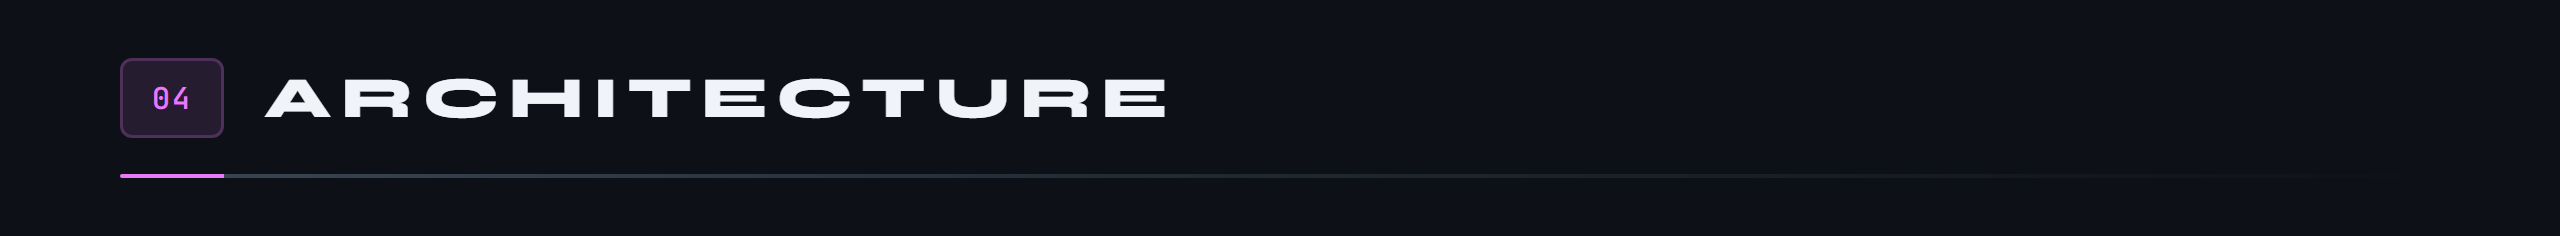
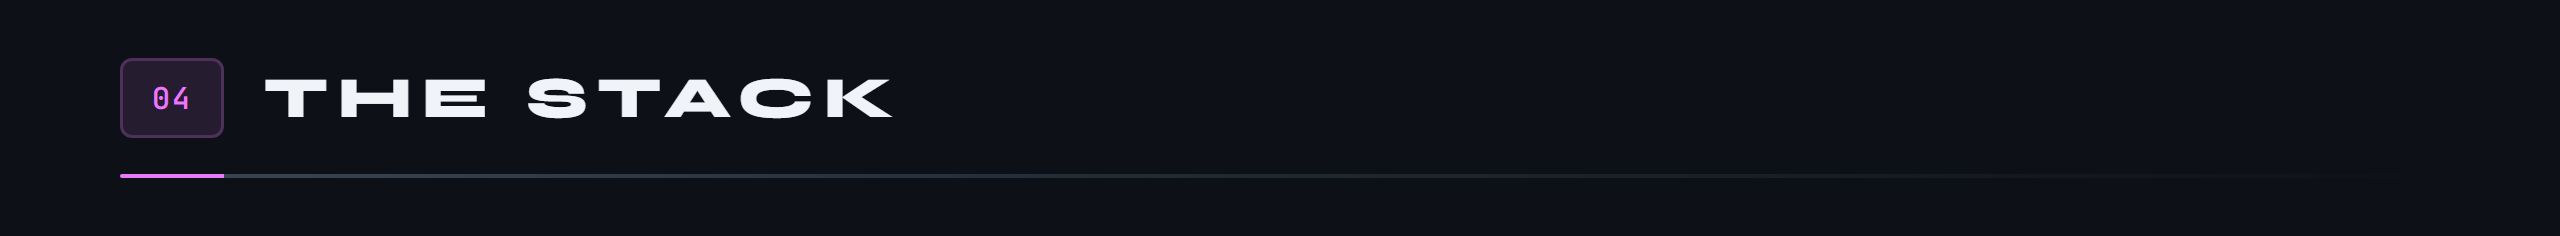
APK 1.0.0 sans jeu d'essai, et une section « Installer »
Le jeu d'essai sort de l'APK publié. La ligne des réglages n'existe
qu'avec --dart-define=ESSAIS=true : sans le drapeau, le compilateur
retire le générateur, ses dix-huit profils et leurs carnets. Les visages
quittent les assets et se posent sur le téléphone par adb, dans le
dossier propre à l'application. L'APK passe de 30,3 à 28,4 Mo.

Nouvelle section 03, « Installer » : l'APK est dans les Releases, un
bouton mène toujours au dernier, et deux vérifications, l'empreinte du
fichier et le certificat de signature. Les bandeaux suivants passent de
04 à 14. telecharger.sh dessine le bouton, version et taille comprises.

Version 1.0.0+2.

Claude-Session: https://claude.ai/code/session_01NXLhh24fksVRhN8kDArzP8

Changed region(s): [[0.0938, 0.3263, 0.4688, 0.5042]]

diff --git a/lib/donnees/demonstration.dart b/lib/donnees/demonstration.dart
@@ -1,6 +1,7 @@
+import 'dart:io';
 import 'dart:math';
 
-import 'package:flutter/services.dart' show rootBundle;
+import 'package:path_provider/path_provider.dart';
 
 import '../domaine/note.dart';
 import '../domaine/personne.dart';
@@ -66,8 +67,11 @@ class _Profil {
 
 /// Remplit la base avec un jeu d'essai.
 ///
-/// Les visages viennent de `assets/demo` : ce sont des portraits générés,
-/// ils ne représentent personne de réel.
+/// Les visages sont des portraits générés, qui ne représentent personne de
+/// réel. Ils ne sont pas dans l'APK : on les pose sur le téléphone, dans le
+/// dossier propre à l'application, avant de lancer le remplissage.
+///
+///     adb push assets/demo/. /sdcard/Android/data/com.bodycount.bodycount/files/demo/
 class Demonstration {
   const Demonstration();
 
@@ -519,10 +523,12 @@ class Demonstration {
   /// Si le fichier manque, la fiche se crée quand même, sans photo : le
   /// jeu d'essai ne doit jamais échouer pour une image absente.
   Future<String?> _visage(int numero) async {
-    final nom = 'assets/demo/v${numero.toString().padLeft(2, '0')}.jpg';
     try {
-      final donnees = await rootBundle.load(nom);
-      return await PhotoVault.instance.store(donnees.buffer.asUint8List());
+      final dossier = await getExternalStorageDirectory();
+      if (dossier == null) return null;
+      final nom = 'v${numero.toString().padLeft(2, '0')}.jpg';
+      final fichier = File('${dossier.path}/demo/$nom');
+      return await PhotoVault.instance.store(await fichier.readAsBytes());
     } catch (_) {
       return null;
     }

diff --git a/lib/ecrans/reglages.dart b/lib/ecrans/reglages.dart
@@ -5,6 +5,7 @@ import 'package:flutter/material.dart';
 import 'package:flutter_riverpod/flutter_riverpod.dart';
 import 'package:go_router/go_router.dart';
 
+import '../config/essais.dart';
 import '../config/theme.dart';
 import '../donnees/base.dart';
 import '../donnees/demonstration.dart';
@@ -106,18 +107,20 @@ class SettingsScreen extends ConsumerWidget {
             ),
             const SizedBox(height: 22),
 
-            const _Intitule('Essais'),
-            _Bloc(
-              children: [
-                _LigneChoix(
-                  icone: Icons.auto_awesome_outlined,
-                  titre: 'Remplir avec un jeu d\'essai',
-                  valeur: '18 fiches',
-                  onTap: () => _remplir(context, ref),
-                ),
-              ],
-            ),
-            const SizedBox(height: 22),
+            if (avecEssais) ...[
+              const _Intitule('Essais'),
+              _Bloc(
+                children: [
+                  _LigneChoix(
+                    icone: Icons.auto_awesome_outlined,
+                    titre: 'Remplir avec un jeu d\'essai',
+                    valeur: '18 fiches',
+                    onTap: () => _remplir(context, ref),
+                  ),
+                ],
+              ),
+              const SizedBox(height: 22),
+            ],
 
             _BoutonDanger(onTap: () => _toutEffacer(context, ref)),
             const SizedBox(height: 18),

diff --git a/lib/config/essais.dart b/lib/config/essais.dart
@@ -1,0 +1,8 @@
+/// Le jeu d'essai n'existe que dans une version de travail.
+///
+/// `flutter build apk --dart-define=ESSAIS=true` le fait apparaître dans
+/// les réglages. Sans ce drapeau, la constante vaut faux à la compilation :
+/// le compilateur retire alors la ligne des réglages, et avec elle tout le
+/// générateur, ses dix-huit profils et leurs carnets. L'APK publié n'en
+/// garde pas un octet.
+const bool avecEssais = bool.fromEnvironment('ESSAIS');

diff --git a/README.md b/README.md
@@ -22,7 +22,7 @@ Toute la conception découle de cette contrainte, jusqu'à la carte, qui dessine
 
 <img src="docs/sections/s02.png" alt="02 Les écrans" width="100%">
 
-L'application est pensée d'abord pour le format passeport, l'écran de couverture d'un Galaxy Z Fold : large et court. C'est là qu'elle sert tous les jours, et c'est lui qui porte la planche complète. Les visages sont ceux du jeu d'essai du dépôt, des portraits générés : personne de réel.
+L'application est pensée d'abord pour le format passeport, l'écran de couverture d'un Galaxy Z Fold : large et court. C'est là qu'elle sert tous les jours, et c'est lui qui porte la planche complète. Les visages sont ceux du jeu d'essai, des portraits générés : personne de réel.
 
 <img src="docs/schemas/captures-passeport.png" alt="Douze écrans au format passeport. Lancement : l'icône sur le fond de l'application. Chargement : un anneau se trace autour du logo pendant que le nom monte. Verrou : le logo a glissé à sa place, le bouton d'empreinte attend. Répertoire : trois colonnes de fiches avec photo, tris, villes et étiquettes. Fiche : la photo d'Enzo en grand, ses étiquettes, ses rencontres. Carnet et galerie : les notes datées, une photo et une vidéo. Visionneuse : la vidéo en lecture, avec le bouton de téléchargement. Point précis : la carte autour d'Auray avec les communes voisines et l'épingle. Statistiques : le total de l'année et le podium. Carte : la Bretagne et les villes regroupées. Calendrier : septembre sur sept colonnes. Réglages : le verrou, la sauvegarde, la restauration." width="100%">
 
@@ -44,7 +44,32 @@ La palette reprend le dégradé du logo, du violet au fuchsia, sur des fonds pre
 
 <img src="docs/schemas/palette.png" alt="Palette : primaire violet #A855F7, accent fuchsia #D946EF, fond #0B0616, surface #150C28, cartes #1A1030, texte #F6F2FF." width="100%">
 
-<img src="docs/sections/s03.png" alt="03 La stack" width="100%">
+<img src="docs/sections/s03.png" alt="03 Installer" width="100%">
+
+L'APK se trouve dans les [Releases](https://github.com/Cybertrist/BodyCount/releases/latest) du dépôt, et non dans le code : un binaire de près de trente mégaoctets versionné avec les sources resterait dans l'historique pour toujours, et chaque clone le traînerait, une fois par version. Le lien ci-dessous mène toujours à la dernière.
+
+<p align="center">
+  <a href="https://github.com/Cybertrist/BodyCount/releases/latest/download/BodyCount.apk"><img src="docs/telecharger.png" alt="Télécharger BodyCount, dernière version, Android 7 ou plus, arm64" width="480"></a>
+</p>
+
+Il demande Android 7 ou plus sur un processeur 64 bits, soit tout téléphone de ces dernières années. Comme il ne passe pas par le Play Store, Android fera autoriser l'installation depuis l'application qui l'ouvre, le navigateur ou le gestionnaire de fichiers.
+
+Pour une application qui gardera ce genre de données, deux vérifications valent la minute qu'elles prennent. L'empreinte du fichier doit être celle publiée avec la version :
+
+```bash
+sha256sum BodyCount.apk
+```
+
+Et le certificat qui le signe doit être celui-ci, le même pour toutes les versions. Android refuse une mise à jour signée d'une autre clé, ce qui écarte aussi un APK retouché en chemin :
+
+```bash
+apksigner verify --print-certs BodyCount.apk
+# SHA-256 : ac09674e066658991aeb60f02e1386423b5e14dede4bd6c844f542785fef86d1
+```
+
+L'APK publié ne contient pas le jeu d'essai : ni les dix-huit profils, ni leurs visages, ni la ligne des réglages qui les crée.
+
+<img src="docs/sections/s04.png" alt="04 La stack" width="100%">
 
 <img src="docs/schemas/stack.png" alt="Flutter 3.x le framework en Dart. sqflite_sqlcipher pour SQLite chiffré par SQLCipher. cryptography pour AES-GCM des photos, HKDF et PBKDF2. javax.crypto pour l'AES-GCM natif des vidéos et des sauvegardes. flutter_secure_storage pour la clé maîtresse dans le Keystore Android. local_auth pour l'empreinte qui déverrouille la clé. flutter_riverpod pour l'état et l'invalidation après écriture. go_router pour la navigation et la garde du verrou. image_picker pour les photos et vidéos chiffrées dès leur arrivée. video_player pour la lecture. path_provider pour les dossiers privés. archive pour relire l'ancien format de sauvegarde. uuid pour le nom des fichiers du coffre. intl pour les dates. url_launcher pour l'itinéraire et l'appel. Chakra Petch pour les titres." width="100%">
 
@@ -61,7 +86,7 @@ Pour une version installable, `flutter build apk --release --split-per-abi`. Le 
 
 Quelques lignes de Kotlin dans `MainActivity` remplacent deux paquets. `cryptography_flutter` s'installait comme implémentation de toute la cryptographie, dérivation de clé comprise, et Android refusait la clé HMAC vide d'une extraction sans sel : la base ne s'ouvrait plus. `share_plus` 13 aurait exigé une version majeure de `flutter_secure_storage`, là où vit la clé maîtresse. L'activité porte donc l'AES-GCM natif, le sélecteur de fichiers, le partage, l'enregistrement dans la galerie, la lecture de la durée et d'une image d'une vidéo, et son réencodage par Media3.
 
-<img src="docs/sections/s04.png" alt="04 Architecture" width="100%">
+<img src="docs/sections/s05.png" alt="05 Architecture" width="100%">
 
 Cinq couches, et une règle : une couche ne connaît jamais celle du dessus. Un écran ne voit pas SQLite, un dépôt ne voit pas Riverpod, et rien ne lit un fichier du coffre sans passer par le trousseau.
 
@@ -77,7 +102,7 @@ Six tables, schéma v7. `personnes` est le pivot : tout ce qui s'y rattache part
 
 <img src="docs/schemas/arborescence.png" alt="Arborescence de lib : main.dart le point d'entrée, app.dart l'application son thème et le reverrouillage, config thème routage et formats d'écran, domaine les modèles, donnees le schéma chiffré les dépôts et les statistiques dont base.dart pour l'ouverture unique et les migrations, coordonnees.dart pour les communes et geometrie_france.dart, security trousseau coffres photo et vidéo verrou et protection écran dont flux_chiffre.dart et aes_natif.dart, providers l'état en Riverpod, ecrans les écrans dont calendrier.dart et visionneuse.dart, widgets les composants réutilisables dont la carte, utils médias sauvegarde en flux sélecteur de fichiers et dates." width="100%">
 
-<img src="docs/sections/s05.png" alt="05 Le chiffrement" width="100%">
+<img src="docs/sections/s06.png" alt="06 Le chiffrement" width="100%">
 
 L'empreinte ne déverrouille pas un écran : elle charge la clé maîtresse depuis le Keystore. Tant qu'elle n'a pas été donnée, la base est un fichier illisible, les photos et les vidéos aussi. Deux clés en sont dérivées par HKDF, l'une pour SQLCipher, l'autre pour le coffre, et aucune n'existe en mémoire avant.
 
@@ -89,7 +114,7 @@ Chaque photo est un fichier à part, chiffré en AES-GCM d'un seul bloc, nommé 
 
 Le verrou se referme sans geste à l'écran, ou au retour d'arrière-plan, après un délai réglable. Il attend la fin d'un travail en cours : une sauvegarde, une restauration ou une longue vidéo qui se chiffre ne se touchent pas du doigt, et le sélecteur de fichiers du système passe l'application en arrière-plan. Il se coupe aussi entièrement dans les réglages : le chiffrement reste, mais la clé se charge alors sans preuve d'identité, et l'écran le dit avant de l'accepter. Au verrouillage, les clés sont oubliées, et leurs octets écrasés avant d'être lâchés plutôt que laissés au ramasse-miettes. L'aperçu du multitâche est masqué, les captures d'écran bloquées, et la sauvegarde automatique d'Android refusée : elle recopierait la base chiffrée sur des serveurs qui ne sont pas les tiens.
 
-<img src="docs/sections/s06.png" alt="06 Vidéos et sauvegardes" width="100%">
+<img src="docs/sections/s07.png" alt="07 Vidéos et sauvegardes" width="100%">
 
 Une vidéo pèse cent fois une photo. La chiffrer d'un bloc demandait de la tenir entière en mémoire, et une sauvegarde qui l'emportait devait tenir en mémoire toutes les vidéos à la fois. Les deux passent donc par un flux chiffré par morceaux d'un mégaoctet, écrit et relu sur le disque.
 
@@ -109,7 +134,7 @@ Une restauration ne touche à rien avant d'avoir tout vérifié. Le fichier est 
 
 L'export propose d'enregistrer le fichier dans un dossier avant de le partager : avec des vidéos, une sauvegarde dépasse vite ce que la plupart des applications acceptent. Le partage passe par une URI temporaire limitée au seul dossier des sauvegardes. Quand la dernière sauvegarde a plus d'un mois, ou qu'il n'y en a jamais eu, un bandeau le dit en haut du répertoire. Les sauvegardes de l'ancien format, un ZIP chiffré d'un bloc, se relisent toujours.
 
-<img src="docs/sections/s07.png" alt="07 La carte, sans tuiles" width="100%">
+<img src="docs/sections/s08.png" alt="08 La carte, sans tuiles" width="100%">
 
 Une carte à tuiles enverrait à un serveur, à chaque déplacement du doigt, la liste exacte des endroits regardés. Pour une application dont toute la promesse est que rien ne sort du téléphone, c'était la seule chose à ne pas faire. La France est donc embarquée.
 
@@ -127,7 +152,7 @@ Tout ce qui est en France est posé. Le nom exact d'abord, en ignorant accents, 
 
 Une rencontre peut aussi se poser à la main, à un point précis. Sans tuiles, il n'y a pas de rues à montrer : ce sont les communes voisines, avec leur nom, qui servent de repère. De quoi poser un point « entre Arradon et Séné », qui apparaît sur la carte des lieux une fois qu'on s'est approché.
 
-<img src="docs/sections/s08.png" alt="08 Le calendrier" width="100%">
+<img src="docs/sections/s09.png" alt="09 Le calendrier" width="100%">
 
 La question qu'on se pose le plus souvent n'est pas « combien », mais « quand » : c'était quel soir, il y a combien de temps, est-ce que ça a été une bonne période. Une liste chronologique y répond mal passé quelques dizaines d'entrées : il faut défiler et compter.
 
@@ -137,11 +162,11 @@ Sous chaque jour, jusqu'à trois signes disent ce qu'il a eu de remarquable, du 
 
 Toujours six semaines affichées, même quand le mois n'en occupe que cinq : une grille dont la hauteur dépend du mois fait sauter tout l'écran quand on le feuillette.
 
-<img src="docs/sections/s09.png" alt="09 Modèle de confidentialité" width="100%">
+<img src="docs/sections/s10.png" alt="10 Modèle de confidentialité" width="100%">
 
 <img src="docs/schemas/confidentialite.png" alt="Ce qui est vrai : aucune requête réseau, aucun compte, aucune analytique. La base est chiffrée par SQLCipher, sa clé vit dans le Keystore et n'est chargée qu'après l'empreinte. Chaque photo et chaque vidéo est chiffrée en AES-GCM et reste absente de la galerie du téléphone. L'aperçu du multitâche est masqué, les captures bloquées, la sauvegarde Android refusée. Une restauration vérifie toute la sauvegarde avant d'effacer quoi que ce soit. Ce qui ne l'est pas : une fois l'application ouverte tout est lisible à l'écran, l'empreinte protège l'accès pas ton épaule. Une sauvegarde exportée voyage, elle vaut ce que vaut ta phrase de passe. Perdre le téléphone c'est perdre les données, la clé ne se recopie nulle part. L'empreinte se coupe dans les réglages. Pour être lue, une vidéo est déchiffrée dans le cache privé le temps de la lecture." width="100%">
 
-<img src="docs/sections/s10.png" alt="10 Les tests" width="100%">
+<img src="docs/sections/s11.png" alt="11 Les tests" width="100%">
 
 Ce qui se casse sans bruit est ce qui touche au disque : l'ouverture de la base, ses migrations, le chiffrement, la sauvegarde. Or SQLCipher, le Keystore et l'AES natif n'existent que sur Android. Les tests tournent donc sur un émulateur, avec les vraies bibliothèques, et non contre des imitations qui passeraient là où l'application échoue. Six d'entre eux pilotent l'application entière, au doigt, d'un écran à l'autre.
 
@@ -155,7 +180,7 @@ Ils détruisent les données et la clé de l'application qu'ils visent : à lanc
 
 Ils ont servi dès leur première exécution. Ceux des données ont trouvé une marque de fin de sauvegarde écrite sur onze octets et lue sur un : aucune restauration n'aurait abouti. Ceux des écrans ont trouvé une rangée de chiffres qui débordait de sa hauteur fixe sur la fiche.
 
-<img src="docs/sections/s11.png" alt="11 Sans Internet" width="100%">
+<img src="docs/sections/s12.png" alt="12 Sans Internet" width="100%">
 
 « Aucune requête réseau » s'écrit facilement. Ici, ce n'est pas une promesse du code mais une règle d'Android : l'application ne demande pas la permission `INTERNET`, et sans elle le système refuse d'ouvrir la moindre connexion. Un bug, une bibliothèque trop bavarde, une dépendance piégée à la prochaine mise à jour : tout se heurte au même mur, qui n'est pas dans l'application et qu'elle ne peut pas franchir.
 
@@ -173,13 +198,13 @@ Restent quatre sorties, et aucune ne s'ouvre seule. Chacune attend un doigt, et 
 
 La dernière est la seule à laisser une trace en clair : une photo téléchargée devient une photo comme les autres, visible de la galerie et de tout ce qui la lit. C'est le prix de « je veux la garder ailleurs », et l'application ne le paie qu'à la demande.
 
-<img src="docs/sections/s12.png" alt="12 Avertissement" width="100%">
+<img src="docs/sections/s13.png" alt="13 Avertissement" width="100%">
 
 Ce dépôt est un projet personnel, pas un produit de sécurité. Le chiffrement s'appuie sur des primitives éprouvées et sur le Keystore d'Android, mais l'assemblage, lui, n'a été relu par personne d'autre que moi. Si tu comptes y mettre des données dont la fuite te coûterait quelque chose, lis le code avant, ou ne le fais pas.
 
-Le jeu d'essai attend ses visages dans `assets/demo/`, qui ne fait pas partie du dépôt. Sans eux les dix-huit fiches se créent quand même, simplement sans photo : le générateur se passe de chaque image absente.
+Le jeu d'essai n'existe que dans une version de travail, compilée avec `--dart-define=ESSAIS=true`. Ses visages ne font pas partie du dépôt : ils se posent sur le téléphone, dans le dossier propre à l'application, avec `adb push assets/demo/. /sdcard/Android/data/com.bodycount.bodycount/files/demo/`. Sans eux les dix-huit fiches se créent quand même, simplement sans photo : le générateur se passe de chaque image absente.
 
-<img src="docs/sections/s13.png" alt="13 Licence et auteur" width="100%">
+<img src="docs/sections/s14.png" alt="14 Licence et auteur" width="100%">
 
 BodyCount est conçu et développé par **Tristan Joncour** ([@Cybertrist](https://github.com/Cybertrist)), élève ingénieur en cyberdéfense à l'ENSIBS, pour son propre usage d'abord : c'est l'application qu'il voulait avoir sur son téléphone, et qui n'existait pas.
 

diff --git a/README.en.md b/README.en.md
@@ -22,7 +22,7 @@ Every design decision follows from that constraint, down to the map, which draws
 
 <img src="docs/en/sections/s02.png" alt="02 The screens" width="100%">
 
-The app is designed first for the passport format, the cover screen of a Galaxy Z Fold: wide and short. That is where it gets used every day, so it carries the full sheet. The faces come from the repository's demo set, generated portraits: nobody real.
+The app is designed first for the passport format, the cover screen of a Galaxy Z Fold: wide and short. That is where it gets used every day, so it carries the full sheet. The faces come from the demo set, generated portraits: nobody real.
 
 <img src="docs/en/schemas/captures-passeport.png" alt="Twelve screens in passport format. Launch: the icon on the app's background. Loading: a ring draws around the logo while the name rises. Lock: the logo has slid into place, the fingerprint button waits. Directory: three columns of people with photos, sortings, cities and tags. Person: Enzo's photo full size, his tags, his encounters. Notebook and gallery: dated notes, a photo and a video. Viewer: the video playing, with the download button. Exact point: the map around Auray with nearby communes and the pin. Statistics: the year total and the podium. Map: Brittany and the clustered cities. Calendar: September in seven columns. Settings: the lock, the backup, restore." width="100%">
 
@@ -44,7 +44,32 @@ The palette follows the logo's gradient, from violet to fuchsia, on near-black b
 
 <img src="docs/en/schemas/palette.png" alt="Palette: primary violet #A855F7, accent fuchsia #D946EF, background #0B0616, surface #150C28, cards #1A1030, text #F6F2FF." width="100%">
 
-<img src="docs/en/sections/s03.png" alt="03 The stack" width="100%">
+<img src="docs/en/sections/s03.png" alt="03 Install" width="100%">
+
+The APK lives in the repository's [Releases](https://github.com/Cybertrist/BodyCount/releases/latest), not in the code: a binary of nearly thirty megabytes versioned with the sources would stay in the history forever, and every clone would drag it along, once per version. The link below always leads to the latest one.
+
+<p align="center">
+  <a href="https://github.com/Cybertrist/BodyCount/releases/latest/download/BodyCount.apk"><img src="docs/en/telecharger.png" alt="Download BodyCount, latest version, Android 7 or later, arm64" width="480"></a>
+</p>
+
+It needs Android 7 or later on a 64-bit processor, which means any phone from recent years. Since it does not go through the Play Store, Android will ask you to allow installs from the app that opens it, the browser or the file manager.
+
+For an app that will hold this kind of data, two checks are worth the minute they take. The file's fingerprint must match the one published with the release:
+
+```bash
+sha256sum BodyCount.apk
+```
+
+And the certificate that signs it must be this one, the same for every version. Android refuses an update signed with another key, which also rules out an APK tampered with on the way:
+
+```bash
+apksigner verify --print-certs BodyCount.apk
+# SHA-256: ac09674e066658991aeb60f02e1386423b5e14dede4bd6c844f542785fef86d1
+```
+
+The published APK does not contain the demo set: not the eighteen people, not their faces, not the settings row that creates them.
+
+<img src="docs/en/sections/s04.png" alt="04 The stack" width="100%">
 
 <img src="docs/en/schemas/stack.png" alt="Flutter 3.x the framework in Dart. sqflite_sqlcipher for SQLite encrypted by SQLCipher. cryptography for photo AES-GCM, HKDF and PBKDF2. javax.crypto for native AES-GCM on videos and backups. flutter_secure_storage for the master key in the Android Keystore. local_auth for the fingerprint that unlocks the key. flutter_riverpod for state and invalidation after writes. go_router for navigation and the lock guard. image_picker for photos and videos encrypted the moment they arrive. video_player for playback. path_provider for the private folders. archive for reading back the old backup format. uuid for vault file names. intl for dates. url_launcher for directions and calls. Chakra Petch for titles." width="100%">
 
@@ -61,7 +86,7 @@ For an installable build, `flutter build apk --release --split-per-abi`. Splitti
 
 A few lines of Kotlin in `MainActivity` replace two packages. `cryptography_flutter` installed itself as the implementation of all cryptography, key derivation included, and Android refused the empty HMAC key of an unsalted extraction: the database would no longer open. `share_plus` 13 would have required a major version of `flutter_secure_storage`, where the master key lives. The activity therefore carries native AES-GCM, the file picker, sharing, saving to the gallery, reading a video's duration and one of its frames, and re-encoding it with Media3.
 
-<img src="docs/en/sections/s04.png" alt="04 Architecture" width="100%">
+<img src="docs/en/sections/s05.png" alt="05 Architecture" width="100%">
 
 Five layers, and one rule: a layer never knows the one above it. A screen does not see SQLite, a repository does not see Riverpod, and nothing reads a vault file without going through the keyring.
 
@@ -77,7 +102,7 @@ Six tables, schema v7. `personnes` is the hub: everything attached to a person l
 
 <img src="docs/en/schemas/arborescence.png" alt="Tree of lib: main.dart the entry point, app.dart the app its theme and the auto-lock, config theme routing and screen formats, domaine the models, donnees the encrypted schema the repositories and the statistics including base.dart for the single opening and migrations, coordonnees.dart for the communes and geometrie_france.dart, security keyring photo and video vaults lock and screen guard including flux_chiffre.dart and aes_natif.dart, providers state in Riverpod, ecrans the screens including calendrier.dart and visionneuse.dart, widgets the reusable components including the map, utils media streamed backup file picker and dates." width="100%">
 
-<img src="docs/en/sections/s05.png" alt="05 Encryption" width="100%">
+<img src="docs/en/sections/s06.png" alt="06 Encryption" width="100%">
 
 The fingerprint does not unlock a screen: it loads the master key from the Keystore. Until it has been given, the database is an unreadable file, and so are the photos and videos. Two keys are derived from it by HKDF, one for SQLCipher, one for the vault, and neither exists in memory before that.
 
@@ -89,7 +114,7 @@ Each photo is its own file, encrypted with AES-GCM in one block, named by a UUID
 
 The lock closes after a spell without a gesture on screen, or on returning from the background, after a configurable delay. It waits for work in progress: a backup, a restore or a long video being encrypted involve no finger on the glass, and the system file picker sends the app to the background. It can also be switched off entirely in the settings: encryption stays, but the key then loads without proof of identity, and the screen says so before accepting. On lock, the keys are forgotten, and their bytes overwritten before being released rather than left to the garbage collector. The task switcher preview is blanked, screenshots are blocked, and Android's automatic backup is refused: it would copy the encrypted database onto servers that are not yours.
 
-<img src="docs/en/sections/s06.png" alt="06 Videos and backups" width="100%">
+<img src="docs/en/sections/s07.png" alt="07 Videos and backups" width="100%">
 
 A video weighs a hundred photos. Encrypting it in one block meant holding it whole in memory, and a backup carrying videos had to hold all of them at once. Both therefore go through a stream encrypted in one megabyte chunks, written and read back on disk.
 
@@ -109,7 +134,7 @@ A restore touches nothing before it has checked everything. The file is read twi
 
 Export offers to save the file to a folder before sharing it: with videos, a backup quickly exceeds what most apps accept. Sharing goes through a temporary URI limited to the backups folder alone. When the last backup is more than a month old, or there never was one, a banner says so at the top of the directory. Backups in the old format, a ZIP encrypted in one block, still read back.
 
-<img src="docs/en/sections/s07.png" alt="07 The map, without tiles" width="100%">
+<img src="docs/en/sections/s08.png" alt="08 The map, without tiles" width="100%">
 
 A tile map would send a server, on every drag of a finger, the exact list of places being looked at. For an app whose whole promise is that nothing leaves the phone, that was the one thing not to do. So France ships with the app.
 
@@ -127,7 +152,7 @@ Everything in France gets placed. The exact name first, ignoring accents, hyphen
 
 An encounter can also be placed by hand, at an exact point. Without tiles there are no streets to show: nearby communes, with their names, serve as landmarks. Enough to drop a pin « between Arradon and Séné », which shows on the map of places once you zoom in.
 
-<img src="docs/en/sections/s08.png" alt="08 The calendar" width="100%">
+<img src="docs/en/sections/s09.png" alt="09 The calendar" width="100%">
 
 The question you ask most is not « how many » but « when »: which night was it, how long ago, was that a good stretch. A chronological list answers badly past a few dozen entries: you have to scroll and count.
 
@@ -137,11 +162,11 @@ Under each day, up to three signs say what it had of note, rarest first: the yea
 
 Always six weeks on screen, even when the month only fills five: a grid whose height depends on the month makes the whole screen jump as you leaf through it.
 
-<img src="docs/en/sections/s09.png" alt="09 Privacy model" width="100%">
+<img src="docs/en/sections/s10.png" alt="10 Privacy model" width="100%">
 
 <img src="docs/en/schemas/confidentialite.png" alt="What is true: no network request, no account, no analytics. The database is encrypted by SQLCipher, its key lives in the Keystore and is only loaded after the fingerprint. Every photo and video is encrypted with AES-GCM and never shows in the phone gallery. The task switcher preview is blanked, screenshots blocked, Android backup refused. A restore checks the whole backup before erasing anything. What is false: once the app is open everything is readable on screen, the fingerprint protects access not your shoulder. An exported backup travels, it is worth what your passphrase is worth. Losing the phone means losing the data, the key is copied nowhere. The fingerprint can be switched off in the settings. To be played, a video is decrypted into the private cache for as long as it plays." width="100%">
 
-<img src="docs/en/sections/s10.png" alt="10 The tests" width="100%">
+<img src="docs/en/sections/s11.png" alt="11 The tests" width="100%">
 
 What breaks silently is what touches the disk: opening the database, its migrations, encryption, backups. Yet SQLCipher, the Keystore and native AES only exist on Android. The tests therefore run on an emulator, against the real libraries, rather than against stand-ins that would pass where the app fails. Six of them drive the whole app, by finger, from one screen to the next.
 
@@ -155,7 +180,7 @@ They destroy the data and the key of the app they target: run them on an emulato
 
 They paid off on their first run. The data tests found a backup end marker written on eleven bytes and read on one: no restore would have gone through. The screen tests found a row of figures overflowing its fixed height on the person page.
 
-<img src="docs/en/sections/s11.png" alt="11 No Internet" width="100%">
+<img src="docs/en/sections/s12.png" alt="12 No Internet" width="100%">
 
 "No network requests" is easy to write. Here it is not a promise made by the code but an Android rule: the app does not ask for the `INTERNET` permission, and without it the system refuses to open any connection at all. A bug, a chatty library, a dependency poisoned in its next update: everything hits the same wall, which is not inside the app and which the app cannot get past.
 
@@ -173,13 +198,13 @@ Four exits remain, and none of them opens by itself. Each one waits for a finger
 
 The last one is the only one that leaves a plain trace: a downloaded photo becomes a photo like any other, visible to the gallery and to anything that reads it. That is the price of "I want to keep it somewhere else", and the app only pays it on request.
 
-<img src="docs/en/sections/s12.png" alt="12 A word of warning" width="100%">
+<img src="docs/en/sections/s13.png" alt="13 A word of warning" width="100%">
 
 This repository is a personal project, not a security product. The encryption rests on proven primitives and on Android's Keystore, but the assembly itself has been reviewed by nobody other than me. If you plan to put data in it whose leak would cost you something, read the code first, or don't.
 
-The demo set looks for its faces in `assets/demo/`, which is not part of the repository. Without them the eighteen people are still created, simply without a photo: the generator copes with every missing image.
+The demo set only exists in a working build, compiled with `--dart-define=ESSAIS=true`. Its faces are not part of the repository: they go onto the phone, into the app's own folder, with `adb push assets/demo/. /sdcard/Android/data/com.bodycount.bodycount/files/demo/`. Without them the eighteen people are still created, simply without a photo: the generator copes with every missing image.
 
-<img src="docs/en/sections/s13.png" alt="13 Licence and author" width="100%">
+<img src="docs/en/sections/s14.png" alt="14 Licence and author" width="100%">
 
 BodyCount is designed and built by **Tristan Joncour** ([@Cybertrist](https://github.com/Cybertrist)), a cyber defence engineering student at ENSIBS, for his own use first: it is the app he wanted on his phone, and it did not exist.
 

diff --git a/docs/tools/README.md b/docs/tools/README.md
@@ -40,6 +40,10 @@ ce qui rend impossible d'en corriger une en oubliant l'autre.
   côté, réduit à 720 points de large et écrit en JPEG, par un canvas de
   Chrome. `node docs/tools/rogner.js <brut> <src-captures/format>`,
   suivi de `1200` pour un écran couché, qui mérite plus de 720 points.
+- `telecharger.sh` : le bouton de la section « Installer », avec la
+  version lue dans `pubspec.yaml` et la taille lue sur l'APK construit.
+  Il pointe vers le dernier APK des Releases, dont l'adresse ne change
+  pas d'une version à l'autre.
 - `social.sh` : l'aperçu social du dépôt, `docs/social-preview.png`,
   1280 x 640. À déposer à la main dans Settings > General > Social
   preview, GitHub ne le lit pas depuis le dépôt.
